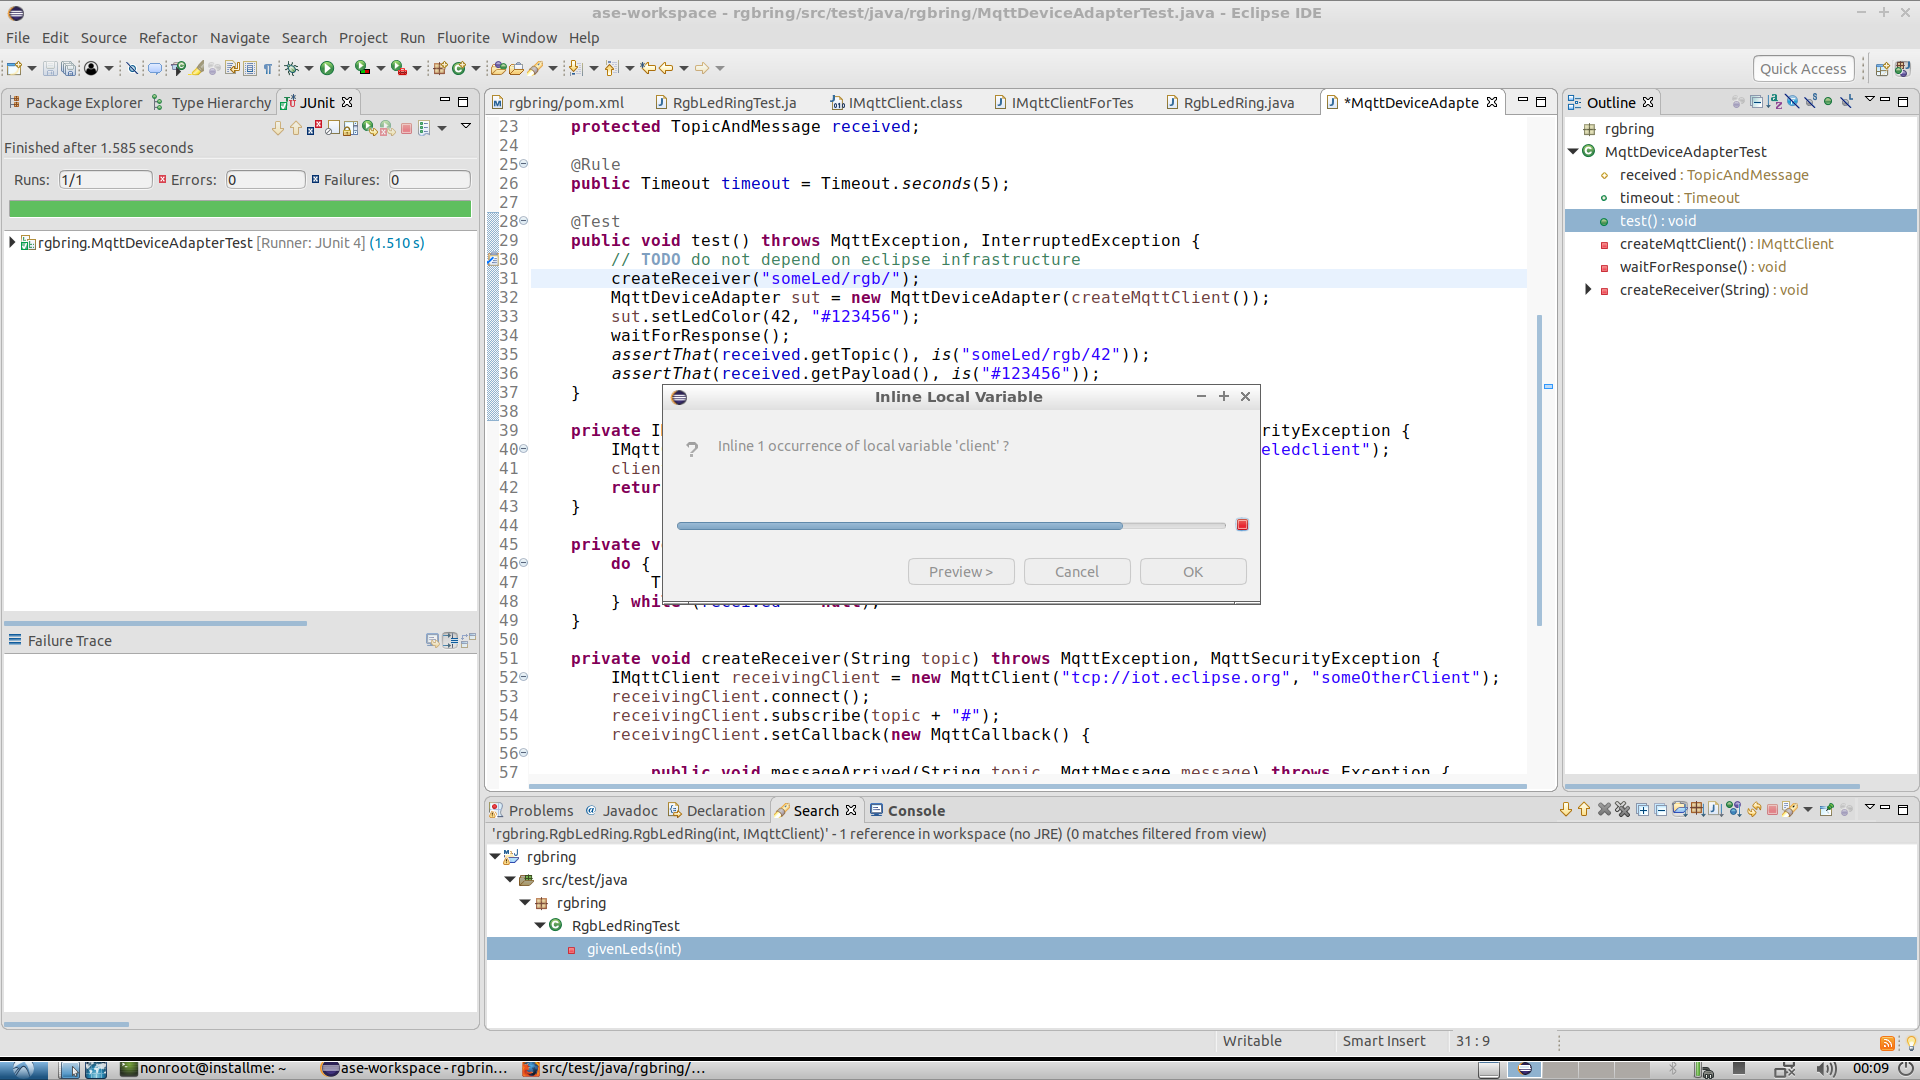
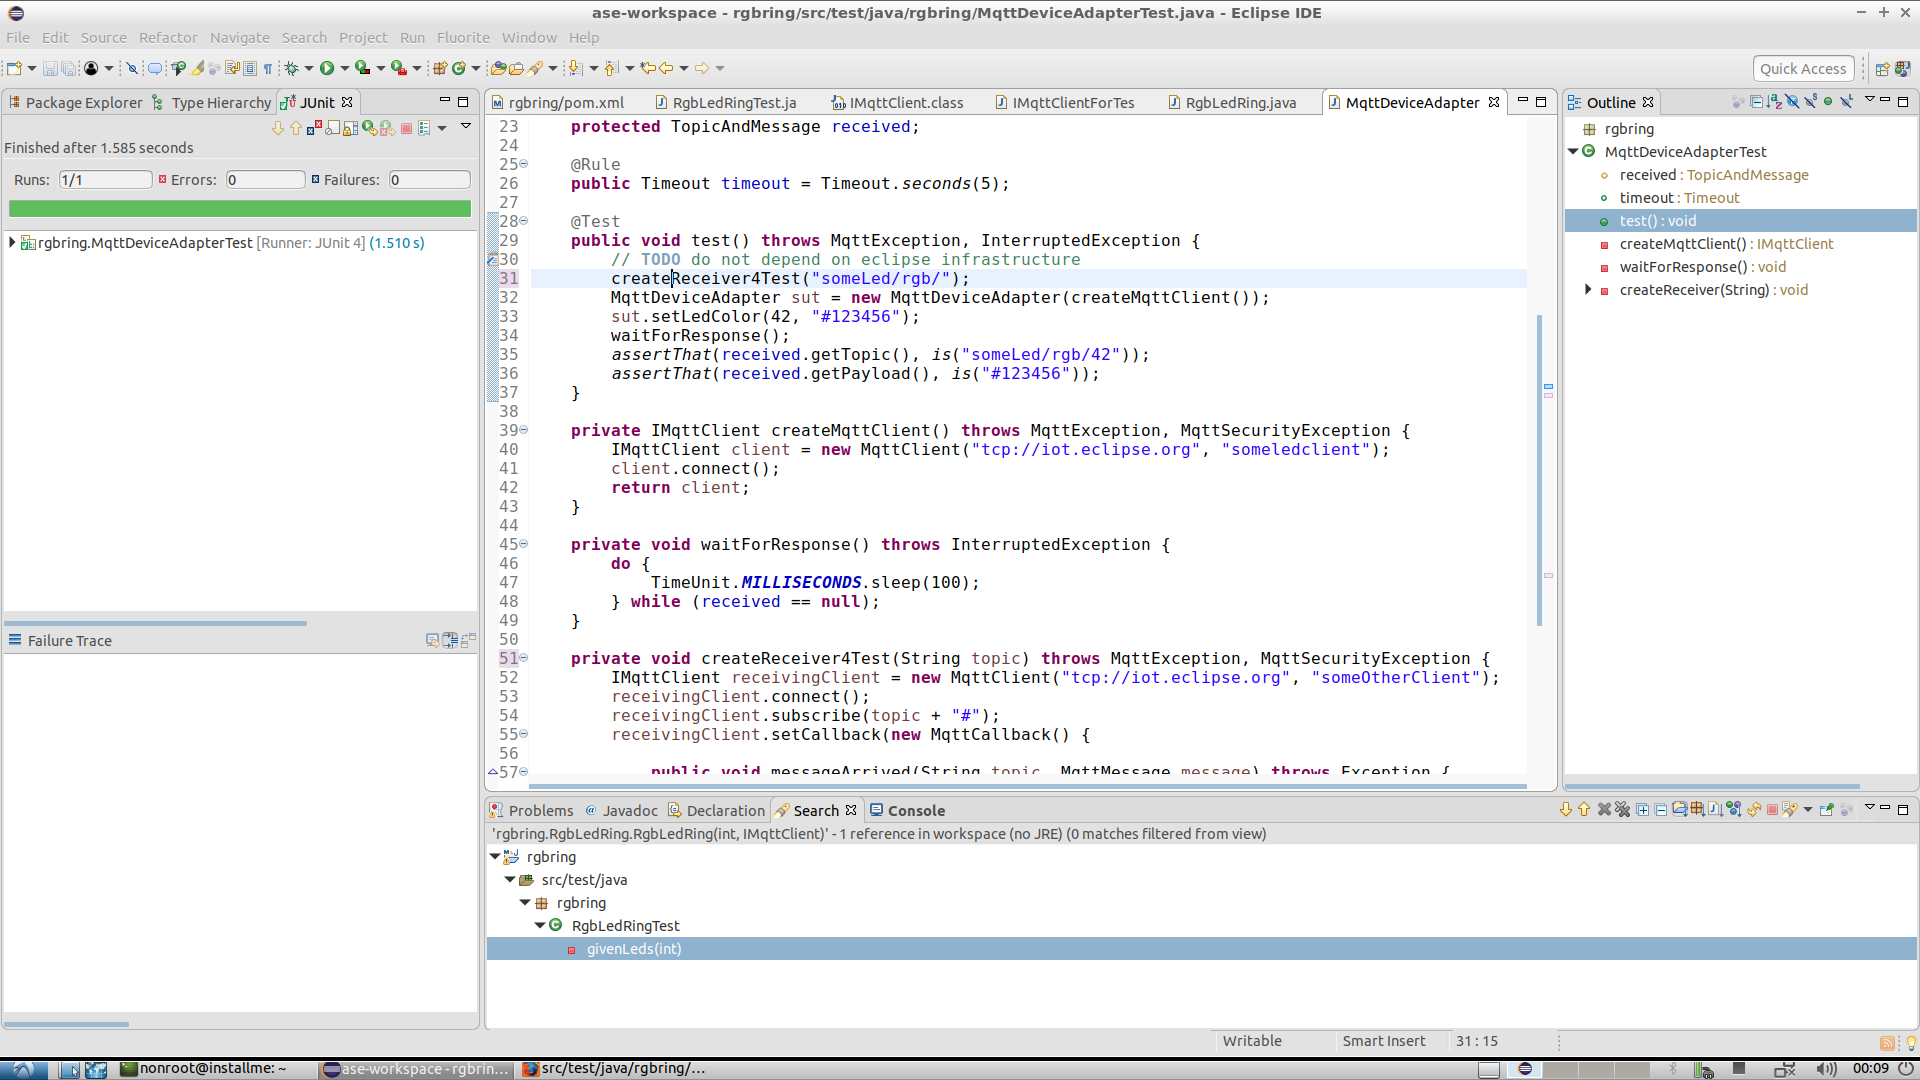
autocommit on change

diff --git a/src/test/java/rgbring/MqttDeviceAdapterTest.java b/src/test/java/rgbring/MqttDeviceAdapterTest.java
@@ -28,7 +28,7 @@ public class MqttDeviceAdapterTest {
 	@Test
 	public void test() throws MqttException, InterruptedException {
 		// TODO do not depend on eclipse infrastructure
-		createReceiver("someLed/rgb/");
+		createReceiver4Test("someLed/rgb/");
 		MqttDeviceAdapter sut = new MqttDeviceAdapter(createMqttClient());
 		sut.setLedColor(42, "#123456");
 		waitForResponse();
@@ -48,7 +48,7 @@ public class MqttDeviceAdapterTest {
 		} while (received == null);
 	}
 
-	private void createReceiver(String topic) throws MqttException, MqttSecurityException {
+	private void createReceiver4Test(String topic) throws MqttException, MqttSecurityException {
 		IMqttClient receivingClient = new MqttClient("tcp://iot.eclipse.org", "someOtherClient");
 		receivingClient.connect();
 		receivingClient.subscribe(topic + "#");
